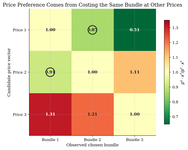
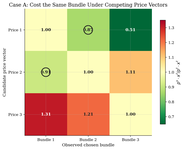
Revise revealed price preference tutorial

diff --git a/choice/revealed-price-preference/run.py b/choice/revealed-price-preference/run.py
@@ -123,7 +123,7 @@ def plot_cost_ratio_heatmap(case: dict[str, object]) -> plt.Figure:
 
     ax.set_xticks(range(3), [f"Bundle {t + 1}" for t in range(3)])
     ax.set_yticks(range(3), [f"Price {s + 1}" for s in range(3)])
-    ax.set_title("Price Preference Comes from Costing the Same Bundle at Other Prices")
+    ax.set_title("Case A: Cost the Same Bundle Under Competing Price Vectors")
     ax.set_xlabel("Observed chosen bundle")
     ax.set_ylabel("Candidate price vector")
     fig.tight_layout()
@@ -164,11 +164,11 @@ def plot_price_preference_graph(case: dict[str, object]) -> plt.Figure:
         ax.text(x_pos, y_pos + 0.03, f"$p^{node + 1}$", ha="center", va="center", fontsize=15, weight="bold")
         ax.text(x_pos, y_pos - 0.20, f"price {node + 1}", ha="center", va="center", fontsize=9)
 
-    ax.set_title("GAPP Fails When Price Preferences Cycle")
+    ax.set_title("Case A: A Cycle in Revealed Price Preference")
     ax.text(
         0,
         -1.25,
-        "Arrows mean one price vector is revealed cheaper for an observed bundle.",
+        "Arrows compare price vectors while holding the observed bundle fixed.",
         ha="center",
         fontsize=10,
     )
@@ -235,56 +235,95 @@ def main() -> None:
 
     report = ModelReport(
         "Revealed Price Preference",
-        "Testing rationalizability of price vectors rather than chosen bundles.",
+        "When the object being compared is a price regime, not a chosen bundle.",
+        include_reproduce=False,
+        show_figure_captions=False,
     )
 
     report.add_overview(
-        "Standard revealed preference asks whether chosen bundles can be rationalized by "
-        "utility maximization. Revealed price preference asks a dual question: do the "
-        "price vectors themselves behave as if there is a consistent preference over "
-        "prices? This is useful when the empirical object is a price regime, tax schedule, "
-        "or tariff vector rather than only a consumed bundle.\n\n"
-        "The key distinction is simple. GARP compares bundles at the prices faced when a "
-        "bundle was chosen. GAPP fixes an observed chosen bundle and asks whether another "
-        "price vector would have made that same bundle weakly cheaper. Cycles in these "
-        "price comparisons reject rationalizability of prices, even in examples where "
-        "standard bundle GARP may pass."
+        "Many revealed-preference exercises ask whether observed bundles could have come "
+        "from one stable utility ordering. Sometimes the empirical object is different. A "
+        "researcher may want to compare tax schedules, tariffs, insurance menus, or other "
+        "price regimes and ask whether the data rank those regimes consistently.\n\n"
+        "Revealed price preference keeps the same price-quantity observations "
+        "$(p^t,x^t)$, but it reverses the object of comparison. GARP asks whether the "
+        "chosen bundles can be ordered. GAPP asks whether the observed price vectors can "
+        "be ordered by the bundles they make cheap. A price vector $p^s$ is better than "
+        "$p^t$ for observation $t$ if it would have made the bundle actually chosen under "
+        "$p^t$ weakly cheaper. The tutorial uses small deterministic panels to show that "
+        "bundle rationalizability and price-regime rationalizability are distinct "
+        "restrictions, not two descriptions of the same test."
     )
 
     report.add_equations(
         r"""
-Let $p^s$ be price vector $s$ and $x^t$ be the bundle chosen under price vector $t$.
-Price $s$ is directly revealed preferred to price $t$ when it makes bundle $x^t$ weakly cheaper:
+The data are $\mathcal D=\{(p^t,x^t)\}_{t=1}^{T}$, where
+$p^t\in\mathbb R_{++}^{L}$ is the observed price vector and
+$x^t\in\mathbb R_{+}^{L}$ is the chosen bundle. Own expenditure is
+$m_t=p^t\cdot x^t$.
 
-$$R_p[s,t] = 1\{p^s \cdot x^t \le p^t \cdot x^t\}.$$
+For price-regime comparisons, define the cross-cost matrix
+$$
+C_{st}=p^s\cdot x^t .
+$$
+Price vector $s$ is directly revealed weakly preferred to price vector $t$ when
+it would have made the bundle chosen at $t$ no more expensive than it actually
+was:
+$$
+sR_p^D t
+\quad\Longleftrightarrow\quad
+C_{st}\le C_{tt}=m_t .
+$$
 
 The strict relation is
-
-$$P_p[s,t] = 1\{p^s \cdot x^t < p^t \cdot x^t\}.$$
-
-GAPP fails when price $s$ is indirectly revealed preferred to price $t$, but $t$ is strictly directly revealed preferred to $s$:
-
-$$R_p^{*}[s,t] = 1 \quad \text{and} \quad P_p[t,s] = 1.$$
+$$
+sP_p^D t
+\quad\Longleftrightarrow\quad
+C_{st}<C_{tt}.
+$$
+Let $R_p$ be the transitive closure of $R_p^D$. GAPP holds when there is no
+pair $(s,t)$ such that
+$$
+sR_p t
+\quad\text{and}\quad
+tP_p^D s .
+$$
+The first statement says the data indirectly rank price vector $s$ at least as
+good as price vector $t$. The second says the data strictly rank $t$ above $s$
+in the direct reverse comparison. Together they form the price-regime analogue
+of a revealed-preference cycle.
 """
     )
 
     report.add_model_setup(
         "| Object | Value | Interpretation |\n"
         "|---|---:|---|\n"
-        "| Price vectors | 3 | Candidate price regimes |\n"
-        "| Goods | 3 | Bundles are costed under each price vector |\n"
-        "| Focal example | Case A | GARP passes but GAPP fails |\n"
-        f"| Focal price violations | {len(focal['gapp_violations'])} | Cyclic price-preference contradictions |"
+        "| Observations $T$ | 3 | Each case has three price-quantity observations |\n"
+        "| Goods $L$ | 3 | Bundles are finite consumption vectors |\n"
+        "| Deterministic cases | 4 | The examples cover every GARP/GAPP pass-fail cell |\n"
+        "| Focal example | Case A | Bundle GARP passes while price GAPP fails |\n"
+        f"| Focal GAPP violations | {len(focal['gapp_violations'])} | Strict reverse comparisons closing a price cycle |"
     )
 
     report.add_solution_method(
-        "The script first runs the usual GARP test on bundles. It then transposes the "
-        "economic comparison: for each observed bundle, compare how costly that same bundle "
-        "would have been under every observed price vector. Those comparisons form a price "
-        "preference graph. Warshall closure gives indirect price preference, and GAPP checks "
-        "whether any indirect price ranking is contradicted by a strict reverse comparison.\n\n"
-        "The four deterministic examples show that bundle rationalizability and price "
-        "rationalizability are distinct restrictions rather than two names for the same test."
+        "The computation is the same kind of finite graph exercise used in the "
+        "[Afriat revealed-preference test](../revealed-preference-afriat/), but the "
+        "nodes are price vectors rather than bundles. The only costly step is the "
+        "transitive closure, which is $O(T^3)$ and exact for these finite panels.\n\n"
+        "```text\n"
+        "Algorithm: GAPP test for revealed price preference\n"
+        "Input: price vectors p^t and chosen bundles x^t for t=1,...,T\n"
+        "Output: pass/fail GAPP decision and violating price-vector pairs\n\n"
+        "1. Form C_st = p^s . x^t for every pair of observations (s,t).\n"
+        "2. Set R_p^D[s,t] = 1 if C_st <= C_tt.\n"
+        "3. Set P_p^D[s,t] = 1 if C_st < C_tt.\n"
+        "4. Compute the transitive closure R_p of R_p^D.\n"
+        "5. For every pair (s,t), flag a violation if R_p[s,t] = 1 and P_p^D[t,s] = 1.\n"
+        "6. The data pass GAPP exactly when the violation set is empty.\n"
+        "```\n\n"
+        "The script also runs ordinary bundle GARP on the same observations. That side-by-side "
+        "comparison is deliberate: if the empirical question is about price regimes, a clean "
+        "bundle-rationalizability test can miss the restriction that matters."
     )
 
     report.add_table(
@@ -292,9 +331,9 @@ $$R_p^{*}[s,t] = 1 \quad \text{and} \quad P_p[t,s] = 1.$$
         "Bundle GARP and Price GAPP Diagnostics",
         summary,
         description=(
-            "The examples occupy all four pass/fail cells. This is the main conceptual point: "
-            "testing choices over bundles and testing choices over prices are different "
-            "revealed-preference exercises."
+            "The four synthetic panels occupy all four pass-fail cells. Case A is the focal "
+            "example because it looks rational when the bundles are tested, but it fails once "
+            "the price vectors themselves are treated as the objects being ranked."
         ),
     )
 
@@ -304,9 +343,10 @@ $$R_p^{*}[s,t] = 1 \quad \text{and} \quad P_p[t,s] = 1.$$
         "Cost ratios used to reveal preferences over price vectors.",
         fig1,
         description=(
-            "Rows are candidate price vectors and columns are observed bundles. Entries below "
-            "one mean the row price vector makes that column's bundle cheaper than its observed "
-            "price vector did."
+            "The heat map shows the cross-cost ratio $C_{st}/C_{tt}$. Rows are candidate "
+            "price vectors and columns are observed bundles. Entries below one mean that the "
+            "row price vector would have made the column's bundle cheaper than the price "
+            "vector under which that bundle was actually chosen."
         ),
     )
 
@@ -316,8 +356,9 @@ $$R_p^{*}[s,t] = 1 \quad \text{and} \quad P_p[t,s] = 1.$$
         "A cycle in the price-preference graph rejects GAPP.",
         fig2,
         description=(
-            "The arrows are not preferences over bundles. They are revealed comparisons among "
-            "price vectors obtained by holding observed bundles fixed."
+            "The graph translates those cost comparisons into revealed preferences over "
+            "price vectors. The arrows do not compare bundles. They say which price vector "
+            "is revealed to be at least as attractive after holding a chosen bundle fixed."
         ),
     )
 
@@ -327,17 +368,22 @@ $$R_p^{*}[s,t] = 1 \quad \text{and} \quad P_p[t,s] = 1.$$
         "GARP and GAPP classify the same datasets differently.",
         fig3,
         description=(
-            "Because GARP and GAPP ask different economic questions, a dataset can pass one "
-            "test and fail the other."
+            "Across the four deterministic panels, GARP and GAPP separate cleanly. The same "
+            "price-quantity data can support utility maximization over bundles while rejecting "
+            "a consistent ordering of price regimes, or vice versa."
         ),
     )
 
     report.add_takeaway(
-        "Revealed price preference is not a cosmetic relabeling of GARP. GARP tests whether "
-        "chosen bundles can be rationalized by utility maximization. GAPP tests whether price "
-        "vectors are themselves consistently ranked by revealed cost comparisons. The same "
-        "price-quantity data can pass one test and fail the other, so the right diagnostic "
-        "depends on whether the empirical question is about bundles or price regimes."
+        "Revealed price preference is useful when the economic question is about price "
+        "regimes rather than about the chosen bundles themselves. GARP asks whether a stable "
+        "utility ordering can rationalize choices over bundles. GAPP asks whether observed "
+        "price vectors can be ranked consistently by the bundles they make affordable. Since "
+        "the two tests can disagree on the same finite data, the right diagnostic depends on "
+        "which object the empirical exercise is trying to compare. After a standard "
+        "[Afriat test](../revealed-preference-afriat/), this tutorial is the natural dual "
+        "check for applications where prices, tariffs, or schedules are the object of welfare "
+        "comparison."
     )
 
     report.add_references(

diff --git a/choice/revealed-price-preference/README.md b/choice/revealed-price-preference/README.md
@@ -1,46 +1,83 @@
 # Revealed Price Preference
 
-> Testing rationalizability of price vectors rather than chosen bundles.
+> When the object being compared is a price regime, not a chosen bundle.
 
 ## Overview
 
-Standard revealed preference asks whether chosen bundles can be rationalized by utility maximization. Revealed price preference asks a dual question: do the price vectors themselves behave as if there is a consistent preference over prices? This is useful when the empirical object is a price regime, tax schedule, or tariff vector rather than only a consumed bundle.
+Many revealed-preference exercises ask whether observed bundles could have come from one stable utility ordering. Sometimes the empirical object is different. A researcher may want to compare tax schedules, tariffs, insurance menus, or other price regimes and ask whether the data rank those regimes consistently.
 
-The key distinction is simple. GARP compares bundles at the prices faced when a bundle was chosen. GAPP fixes an observed chosen bundle and asks whether another price vector would have made that same bundle weakly cheaper. Cycles in these price comparisons reject rationalizability of prices, even in examples where standard bundle GARP may pass.
+Revealed price preference keeps the same price-quantity observations $(p^t,x^t)$, but it reverses the object of comparison. GARP asks whether the chosen bundles can be ordered. GAPP asks whether the observed price vectors can be ordered by the bundles they make cheap. A price vector $p^s$ is better than $p^t$ for observation $t$ if it would have made the bundle actually chosen under $p^t$ weakly cheaper. The tutorial uses small deterministic panels to show that bundle rationalizability and price-regime rationalizability are distinct restrictions, not two descriptions of the same test.
 
 ## Equations
 
-Let $p^s$ be price vector $s$ and $x^t$ be the bundle chosen under price vector $t$.
-Price $s$ is directly revealed preferred to price $t$ when it makes bundle $x^t$ weakly cheaper:
+The data are $\mathcal D=\{(p^t,x^t)\}_{t=1}^{T}$, where
+$p^t\in\mathbb R_{++}^{L}$ is the observed price vector and
+$x^t\in\mathbb R_{+}^{L}$ is the chosen bundle. Own expenditure is
+$m_t=p^t\cdot x^t$.
 
-$$R_p[s,t] = 1\{p^s \cdot x^t \le p^t \cdot x^t\}.$$
+For price-regime comparisons, define the cross-cost matrix
+$$
+C_{st}=p^s\cdot x^t .
+$$
+Price vector $s$ is directly revealed weakly preferred to price vector $t$ when
+it would have made the bundle chosen at $t$ no more expensive than it actually
+was:
+$$
+sR_p^D t
+\quad\Longleftrightarrow\quad
+C_{st}\le C_{tt}=m_t .
+$$
 
 The strict relation is
-
-$$P_p[s,t] = 1\{p^s \cdot x^t < p^t \cdot x^t\}.$$
-
-GAPP fails when price $s$ is indirectly revealed preferred to price $t$, but $t$ is strictly directly revealed preferred to $s$:
-
-$$R_p^{*}[s,t] = 1 \quad \text{and} \quad P_p[t,s] = 1.$$
+$$
+sP_p^D t
+\quad\Longleftrightarrow\quad
+C_{st}<C_{tt}.
+$$
+Let $R_p$ be the transitive closure of $R_p^D$. GAPP holds when there is no
+pair $(s,t)$ such that
+$$
+sR_p t
+\quad\text{and}\quad
+tP_p^D s .
+$$
+The first statement says the data indirectly rank price vector $s$ at least as
+good as price vector $t$. The second says the data strictly rank $t$ above $s$
+in the direct reverse comparison. Together they form the price-regime analogue
+of a revealed-preference cycle.
 
 ## Model Setup
 
 | Object | Value | Interpretation |
 |---|---:|---|
-| Price vectors | 3 | Candidate price regimes |
-| Goods | 3 | Bundles are costed under each price vector |
-| Focal example | Case A | GARP passes but GAPP fails |
-| Focal price violations | 2 | Cyclic price-preference contradictions |
+| Observations $T$ | 3 | Each case has three price-quantity observations |
+| Goods $L$ | 3 | Bundles are finite consumption vectors |
+| Deterministic cases | 4 | The examples cover every GARP/GAPP pass-fail cell |
+| Focal example | Case A | Bundle GARP passes while price GAPP fails |
+| Focal GAPP violations | 2 | Strict reverse comparisons closing a price cycle |
 
 ## Solution Method
 
-The script first runs the usual GARP test on bundles. It then transposes the economic comparison: for each observed bundle, compare how costly that same bundle would have been under every observed price vector. Those comparisons form a price preference graph. Warshall closure gives indirect price preference, and GAPP checks whether any indirect price ranking is contradicted by a strict reverse comparison.
+The computation is the same kind of finite graph exercise used in the [Afriat revealed-preference test](../revealed-preference-afriat/), but the nodes are price vectors rather than bundles. The only costly step is the transitive closure, which is $O(T^3)$ and exact for these finite panels.
 
-The four deterministic examples show that bundle rationalizability and price rationalizability are distinct restrictions rather than two names for the same test.
+```text
+Algorithm: GAPP test for revealed price preference
+Input: price vectors p^t and chosen bundles x^t for t=1,...,T
+Output: pass/fail GAPP decision and violating price-vector pairs
+
+1. Form C_st = p^s . x^t for every pair of observations (s,t).
+2. Set R_p^D[s,t] = 1 if C_st <= C_tt.
+3. Set P_p^D[s,t] = 1 if C_st < C_tt.
+4. Compute the transitive closure R_p of R_p^D.
+5. For every pair (s,t), flag a violation if R_p[s,t] = 1 and P_p^D[t,s] = 1.
+6. The data pass GAPP exactly when the violation set is empty.
+```
+
+The script also runs ordinary bundle GARP on the same observations. That side-by-side comparison is deliberate: if the empirical question is about price regimes, a clean bundle-rationalizability test can miss the restriction that matters.
 
 ## Results
 
-The examples occupy all four pass/fail cells. This is the main conceptual point: testing choices over bundles and testing choices over prices are different revealed-preference exercises.
+The four synthetic panels occupy all four pass-fail cells. Case A is the focal example because it looks rational when the bundles are tested, but it fails once the price vectors themselves are treated as the objects being ranked.
 
 **Bundle GARP and Price GAPP Diagnostics**
 
@@ -51,30 +88,21 @@ The examples occupy all four pass/fail cells. This is the main conceptual point:
 | C      | Bundle-inconsistent, price-rational | fail   | pass   |                   4 |                  0 |
 | D      | Both restrictions fail              | fail   | fail   |                   2 |                  2 |
 
-Rows are candidate price vectors and columns are observed bundles. Entries below one mean the row price vector makes that column's bundle cheaper than its observed price vector did.
+The heat map shows the cross-cost ratio $C_{st}/C_{tt}$. Rows are candidate price vectors and columns are observed bundles. Entries below one mean that the row price vector would have made the column's bundle cheaper than the price vector under which that bundle was actually chosen.
 
 <img src="figures/price-cost-ratios.png" alt="Cost ratios used to reveal preferences over price vectors." width="80%">
-*Cost ratios used to reveal preferences over price vectors.*
 
-The arrows are not preferences over bundles. They are revealed comparisons among price vectors obtained by holding observed bundles fixed.
+The graph translates those cost comparisons into revealed preferences over price vectors. The arrows do not compare bundles. They say which price vector is revealed to be at least as attractive after holding a chosen bundle fixed.
 
 <img src="figures/price-preference-graph.png" alt="A cycle in the price-preference graph rejects GAPP." width="80%">
-*A cycle in the price-preference graph rejects GAPP.*
 
-Because GARP and GAPP ask different economic questions, a dataset can pass one test and fail the other.
+Across the four deterministic panels, GARP and GAPP separate cleanly. The same price-quantity data can support utility maximization over bundles while rejecting a consistent ordering of price regimes, or vice versa.
 
 <img src="figures/garp-vs-gapp-cases.png" alt="GARP and GAPP classify the same datasets differently." width="80%">
-*GARP and GAPP classify the same datasets differently.*
 
 ## Takeaway
 
-Revealed price preference is not a cosmetic relabeling of GARP. GARP tests whether chosen bundles can be rationalized by utility maximization. GAPP tests whether price vectors are themselves consistently ranked by revealed cost comparisons. The same price-quantity data can pass one test and fail the other, so the right diagnostic depends on whether the empirical question is about bundles or price regimes.
-
-## Reproduce
-
-```bash
-python run.py
-```
+Revealed price preference is useful when the economic question is about price regimes rather than about the chosen bundles themselves. GARP asks whether a stable utility ordering can rationalize choices over bundles. GAPP asks whether observed price vectors can be ranked consistently by the bundles they make affordable. Since the two tests can disagree on the same finite data, the right diagnostic depends on which object the empirical exercise is trying to compare. After a standard [Afriat test](../revealed-preference-afriat/), this tutorial is the natural dual check for applications where prices, tariffs, or schedules are the object of welfare comparison.
 
 ## References
 

diff --git a/README.md b/README.md
@@ -125,7 +125,7 @@ Choice and demand stays focused on choice theory, revealed preference, Bayesian 
 | <img src="choice/preference-recoverability/figures/thumb.png" width="192"> | [**Preference Bounds from Revealed Choices**](choice/preference-recoverability/) | Constructing rationalizing utility contours from GARP-consistent budgets | Afriat inequalities + contour recovery | Finite choices restrict a set of utilities rather than identifying one demand system |
 | <img src="choice/money-pump-index/figures/thumb.png" width="192"> | [**Money Pump Index for Revealed Preference**](choice/money-pump-index/) | Putting economic size on revealed-preference cycles after GARP rejects | Maximum mean cycle | The same binary violation can expose 3 percent or 17 percent of expenditure per trade |
 | <img src="choice/houtman-maks-rational-subsets/figures/thumb.png" width="192"> | [**Houtman-Maks Rational Cores**](choice/houtman-maks-rational-subsets/) | Diagnosing whether a GARP rejection is concentrated in a few receipts or spread through the dataset | Exact subset search + SCC greedy diagnostic | The index recovers the largest rationalizable core, not an oracle label for every bad row |
-| <img src="choice/revealed-price-preference/figures/thumb.png" width="192"> | [**Revealed Price Preference**](choice/revealed-price-preference/) | Testing rationalizability of price vectors rather than bundles | Price-preference graph | Price regimes have their own revealed-preference restrictions |
+| <img src="choice/revealed-price-preference/figures/thumb.png" width="192"> | [**Revealed Price Preference**](choice/revealed-price-preference/) | Testing whether price regimes can be ranked from the bundles they make cheap | GAPP graph + transitive closure | A dataset can pass bundle GARP while failing consistency over price regimes |
 | <img src="choice/logit-discrete-choice/figures/thumb.png" width="192"> | [**Multinomial Logit Demand Estimation**](choice/logit-discrete-choice/) | Estimating product choice probabilities from simulated data | MLE | IIA makes substitution proportional to shares |
 | <img src="choice/bayesian-learning/figures/thumb.png" width="192"> | [**Bayesian Learning from Sequential Signals**](choice/bayesian-learning/) | Belief updating and optimal classification | Bayes' rule | Rational learning converges toward the Bayes classifier |
 | <img src="choice/nested-logit/figures/thumb.png" width="192"> | [**Nested Logit Demand and Within-Nest Substitution**](choice/nested-logit/) | Grouped products and stronger same-nest substitution | Berry inversion | Same-nest substitution can be much larger than cross-nest substitution |
